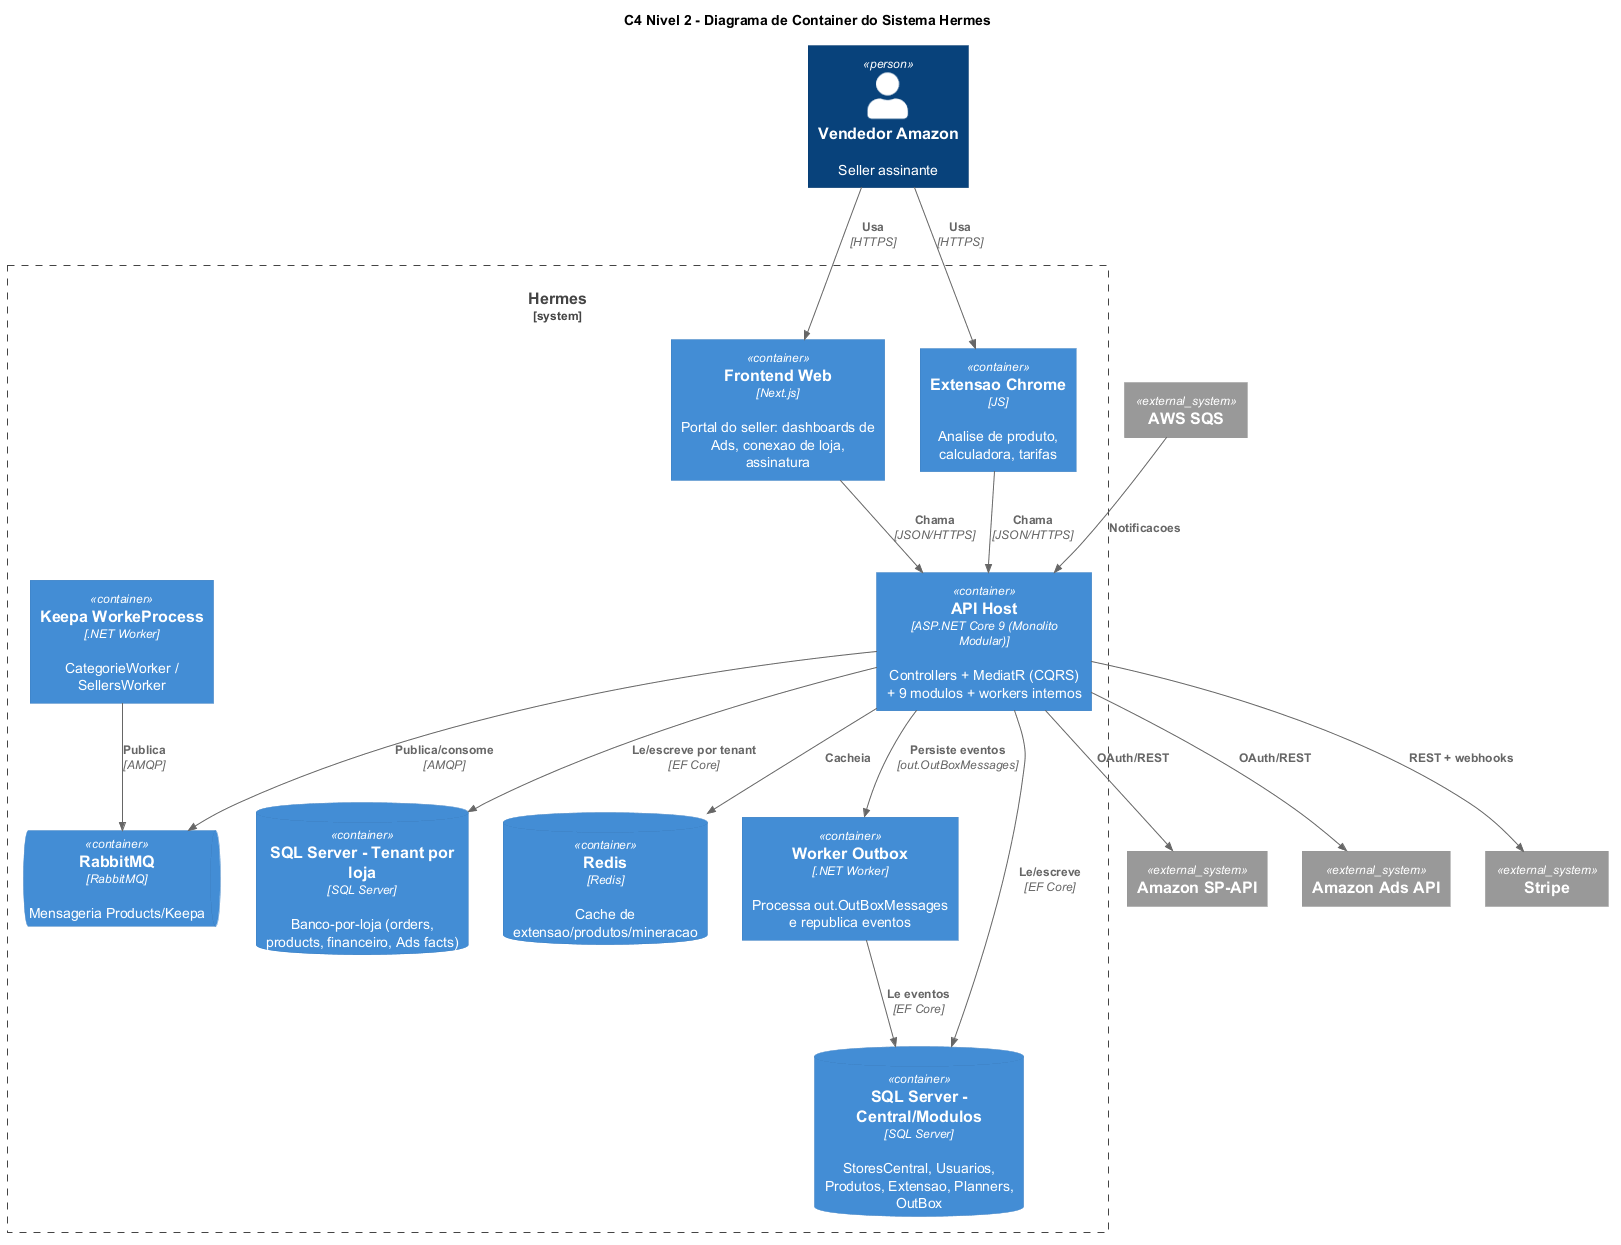
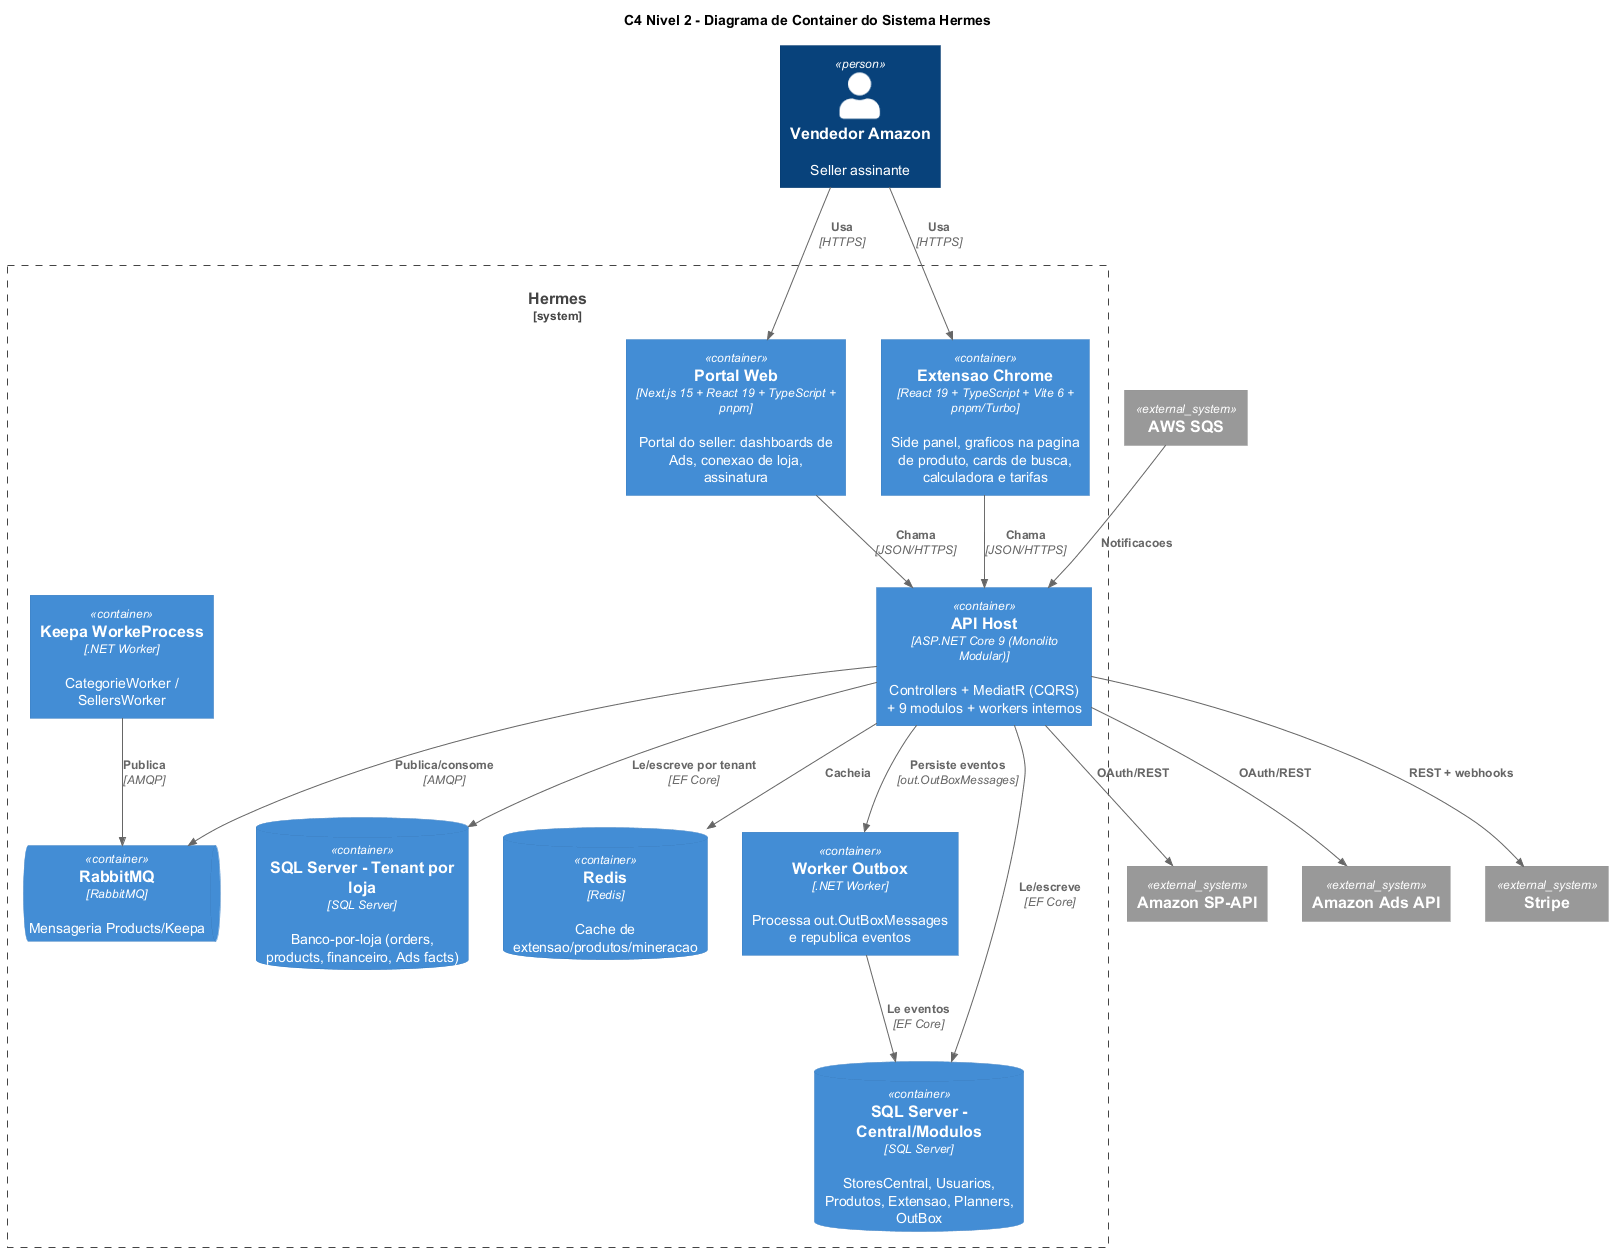
docs: corrige detalhes reais do frontend Hermes

diff --git a/README.md b/README.md
@@ -14,6 +14,7 @@
 ![Licença](https://img.shields.io/badge/licen%C3%A7a-MIT-1682F3)
 ![.NET](https://img.shields.io/badge/.NET-9.0-1682F3?logo=dotnet&logoColor=white)
 ![Next.js](https://img.shields.io/badge/Next.js-frontend-1682F3?logo=next.js&logoColor=white)
+![pnpm](https://img.shields.io/badge/pnpm-workspaces-1682F3?logo=pnpm&logoColor=white)
 ![Status](https://img.shields.io/badge/status-em%20desenvolvimento-1682F3)
 
 ## 📚 Índice
@@ -74,8 +75,12 @@ APIs da Amazon.
 ## 🛠 Tecnologias Utilizadas
 
 **Front-end**
-- Next.js (portal do seller)
-- Extensão Chrome (JavaScript)
+- Portal Web: Next.js 15, React 19, TypeScript, Tailwind CSS, shadcn/ui, Radix UI,
+  React Hook Form, TanStack Table, Recharts, SignalR, PostHog e Vitest.
+- Extensão Chrome: monorepo pnpm/Turbo com React 19, TypeScript, Vite 6, Tailwind CSS,
+  Radix UI, Zustand, TanStack Query, Recharts, Vitest e pacotes `chrome-extension`,
+  `pages/side-panel`, `pages/product-page-charts` e `pages/search-product-cards`.
+- Gerenciador de pacotes: pnpm.
 
 **Back-end**
 - .NET 9 / ASP.NET Core Web API
@@ -120,7 +125,8 @@ banco-por-loja** para os dados operacionais de cada vendedor.
 
 ### Pré-requisitos
 - [.NET SDK 9](https://dotnet.microsoft.com/)
-- [Node.js 20+](https://nodejs.org/) (frontend Next.js)
+- [Node.js 22.12+](https://nodejs.org/) (Portal e Extension)
+- [pnpm 9.15+](https://pnpm.io/) (gerenciador usado pelos frontends)
 - [Docker](https://www.docker.com/) e Docker Compose
 - Acesso a uma instância de **SQL Server**, **Redis** e **RabbitMQ**
 
@@ -156,12 +162,18 @@ dotnet run --project Host
 # Swagger: https://localhost:8081/swagger
 ```
 
-### Frontend (Next.js)
+### Frontend
 
 ```bash
-cd frontend
-npm install
-npm run dev
+# Portal Web (Next.js)
+cd Portal
+pnpm install --frozen-lockfile
+pnpm dev
+
+# Extensão Chrome (pnpm workspace + Turbo + Vite)
+cd Extension
+pnpm install --frozen-lockfile
+pnpm dev
 ```
 
 ### docker-compose
@@ -198,7 +210,8 @@ docker stack deploy -c docker-compose.yml hermes
 │   ├── Keepa/                    #   integração Keepa (workers)
 │   └── OutBox/                   #   Outbox + worker dedicado
 ├── Shareds/                      # transversais: Domain, Contracts, Infrastructure, SDKs
-├── frontend/                     # portal Next.js
+├── Portal/                       # frontend web Next.js 15 + React 19 + pnpm
+├── Extension/                    # extensão Chrome: pnpm workspace + Turbo + Vite
 ├── docs/
 │   ├── Documentacao-de-Projeto.md
 │   ├── diagramas/                # fontes .puml (C4, casos de uso, sequência, estados, ER...)

diff --git a/docs/Documentacao-de-Projeto.md b/docs/Documentacao-de-Projeto.md
@@ -382,8 +382,8 @@ title C4 Nivel 2 - Diagrama de Container do Sistema Hermes
 Person(seller, "Vendedor Amazon", "Seller assinante")
 
 System_Boundary(hermes, "Hermes") {
-  Container(spa, "Frontend Web", "Next.js", "Portal do seller: dashboards de Ads, conexao de loja, assinatura")
-  Container(ext, "Extensao Chrome", "JS", "Analise de produto, calculadora, tarifas")
+  Container(spa, "Portal Web", "Next.js 15 + React 19 + TypeScript + pnpm", "Portal do seller: dashboards de Ads, conexao de loja, assinatura")
+  Container(ext, "Extensao Chrome", "React 19 + TypeScript + Vite 6 + pnpm/Turbo", "Side panel, graficos na pagina de produto, cards de busca, calculadora e tarifas")
   Container(api, "API Host", "ASP.NET Core 9 (Monolito Modular)", "Controllers + MediatR (CQRS) + 9 modulos + workers internos")
   Container(outbox, "Worker Outbox", ".NET Worker", "Processa out.OutBoxMessages e republica eventos")
   Container(keepaw, "Keepa WorkeProcess", ".NET Worker", "CategorieWorker / SellersWorker")